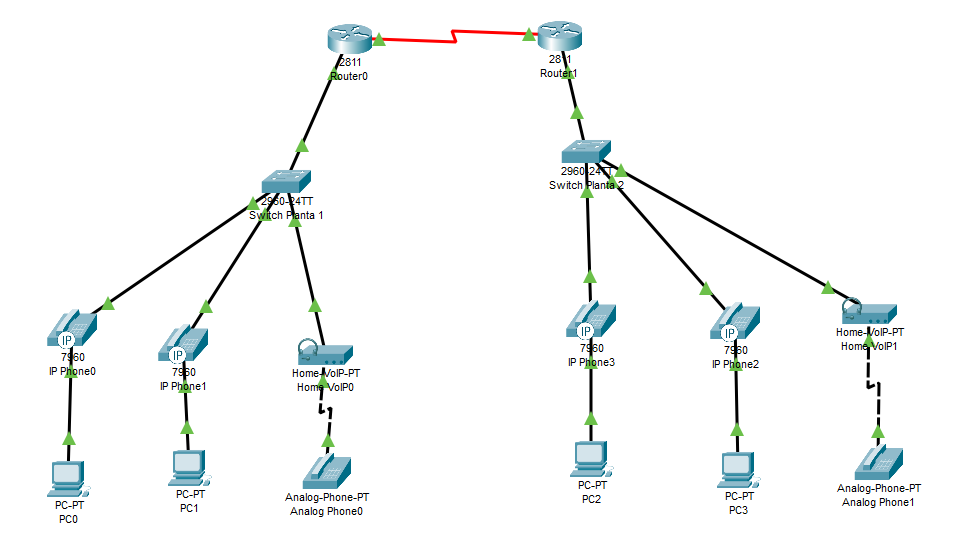
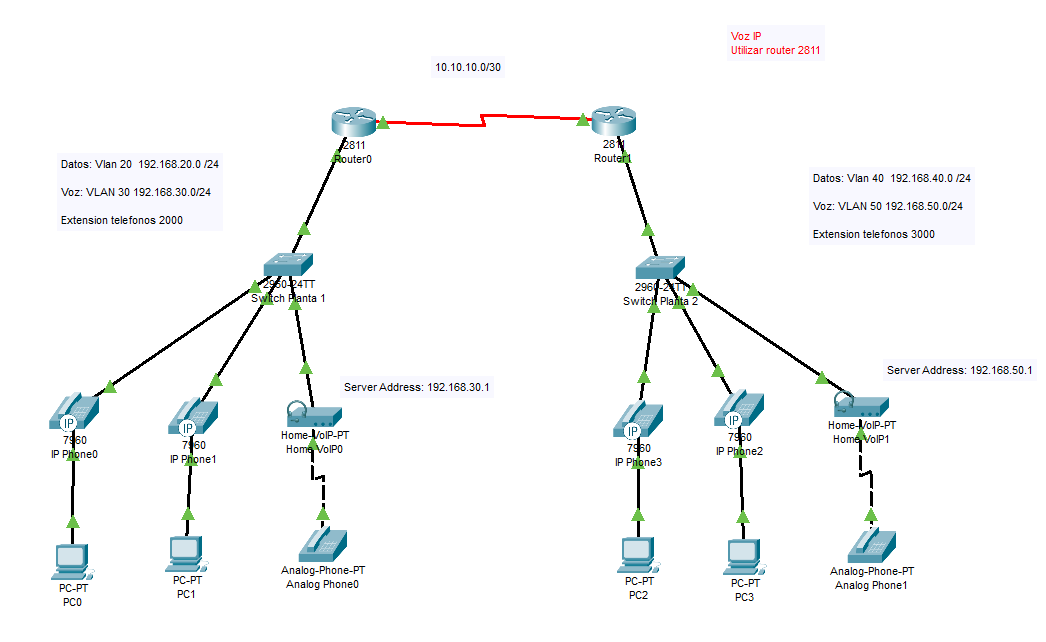
voizip wan

diff --git a/Redes/Cisco/Actividades/5.4.-VozIp en WAN.md b/Redes/Cisco/Actividades/5.4.-VozIp en WAN.md
@@ -1,4 +1,4 @@
-# Configurar VozIp
+# Configurar VozIp en una WAN
 
 Vamos a crear una red para comunicar VoIP. Pare ello hay que crear dos VLAN's, una para datos y otra para VoIP.
 Posteriormente uniremos dos redes para transmitir datos y VoIP entre ellas.
@@ -127,7 +127,7 @@ Router(config-ephone-dn)#exit
 
 ## Enrutar
 
-Para enrutar hay que enrutar los datos y la voz
+Para enrutar, hay que enrutar los datos y la voz
 
 Para enrutar los datos, le damos un ip al interfaz conectada al otro router.
 
@@ -139,7 +139,7 @@ Router(config-if)#no shutdown
 Router(config-if)#exit
 ```
 
-Definimos la ruta.
+Definimos la ruta estatica.
 
 ``` cisco ios
 Router#config terminal
@@ -160,5 +160,49 @@ Router#config terminal
 Router(config)#dial-peer voice 1 voip 
 Router(config-dial-peer)#destination-pattern 300.
 Router(config-dial-peer)#session target ipv4:10.10.10.2
-Router(config-dial-peer)#exit
+Router(config-dial-peer)#end
+```
+
+**Nota:** de Igual modo se configuran el resto de los router.
+
+**Nota:** fijense que no es necesario definir las rutas para las redes de voz ip con el comando *ip route*.
+
+### Enrutar a más de un destino
+
+Para poder enrutar a más una red remota, devemos definir otro dial-peer como aparece en el siguiente ejemplo.
+
+``` cisco ios
+Router#config terminal
+Router(config)#dial-peer voice 2 voip 
+Router(config-dial-peer)#destination-pattern 40..
+Router(config-dial-peer)#session target ipv4:10.10.10.3
+Router(config-dial-peer)#end
+```
+
+## Mostar estado de la telefonía
+
+Podemos ver estado de la telefonía que controla el router.
+
+``` cisco ios
+Router#show ephone 
+
+ephone-1 Mac:000B.BE46.020C TCP socket:[1] activeLine:0 REGISTERED in SCCP ver 12 and Server in ver 8
+mediaActive:0 offhook:0 ringing:0 reset:0 reset_sent:0 paging 0 debug:0 caps:8
+IP:192.168.30.2 1025 7960   keepalive 43 max_line 2
+ button 1: dn 1  number 2001 CH1   IDLE
+
+ephone-2 Mac:0090.0C81.1451 TCP socket:[1] activeLine:0 REGISTERED in SCCP ver 12 and Server in ver 8
+mediaActive:0 offhook:0 ringing:0 reset:0 reset_sent:0 paging 0 debug:0 caps:8
+IP:192.168.30.3 1025 7960   keepalive 43 max_line 2
+ button 1: dn 2  number 2002 CH1   IDLE
+
+ephone-3 Mac:00E0.B05C.BC01 TCP socket:[1] activeLine:0 REGISTERED in SCCP ver 12 and Server in ver 8
+mediaActive:0 offhook:0 ringing:0 reset:0 reset_sent:0 paging 0 debug:0 caps:8
+IP:192.168.20.5 1028 ata   keepalive 43 max_line 2
+ button 1: dn 3  number 2003 CH1   IDLE
+
+ephone-4 Mac:0006.2AB9.6723 TCP socket:[1] activeLine:1 UNREGISTERED
+mediaActive:0 offhook:1 ringing:0 reset:0 reset_sent:0 paging 0 debug:0 caps:8
+IP:0.0.0.0 0    keepalive 43 max_line 2
+ button 1: dn  CH1   DOWN
 ```

diff --git a/Redes/Cisco/Actividades/5.3.-VozIp.md b/Redes/Cisco/Actividades/5.3.-VozIp.md
@@ -125,3 +125,31 @@ Router(config-ephone-dn)#%LINK-3-UPDOWN: Interface ephone_dsp DN 1.1, changed st
 Router(config-ephone-dn)#number 2003
 Router(config-ephone-dn)#exit
 ```
+
+## Mostar estado de la telefonía
+
+Podemos ver estado de la telefonía que controla el router.
+
+``` cisco ios
+Router#show ephone 
+
+ephone-1 Mac:000B.BE46.020C TCP socket:[1] activeLine:0 REGISTERED in SCCP ver 12 and Server in ver 8
+mediaActive:0 offhook:0 ringing:0 reset:0 reset_sent:0 paging 0 debug:0 caps:8
+IP:192.168.30.2 1025 7960   keepalive 43 max_line 2
+ button 1: dn 1  number 2001 CH1   IDLE
+
+ephone-2 Mac:0090.0C81.1451 TCP socket:[1] activeLine:0 REGISTERED in SCCP ver 12 and Server in ver 8
+mediaActive:0 offhook:0 ringing:0 reset:0 reset_sent:0 paging 0 debug:0 caps:8
+IP:192.168.30.3 1025 7960   keepalive 43 max_line 2
+ button 1: dn 2  number 2002 CH1   IDLE
+
+ephone-3 Mac:00E0.B05C.BC01 TCP socket:[1] activeLine:0 REGISTERED in SCCP ver 12 and Server in ver 8
+mediaActive:0 offhook:0 ringing:0 reset:0 reset_sent:0 paging 0 debug:0 caps:8
+IP:192.168.20.5 1028 ata   keepalive 43 max_line 2
+ button 1: dn 3  number 2003 CH1   IDLE
+
+ephone-4 Mac:0006.2AB9.6723 TCP socket:[1] activeLine:1 UNREGISTERED
+mediaActive:0 offhook:1 ringing:0 reset:0 reset_sent:0 paging 0 debug:0 caps:8
+IP:0.0.0.0 0    keepalive 43 max_line 2
+ button 1: dn  CH1   DOWN
+```
